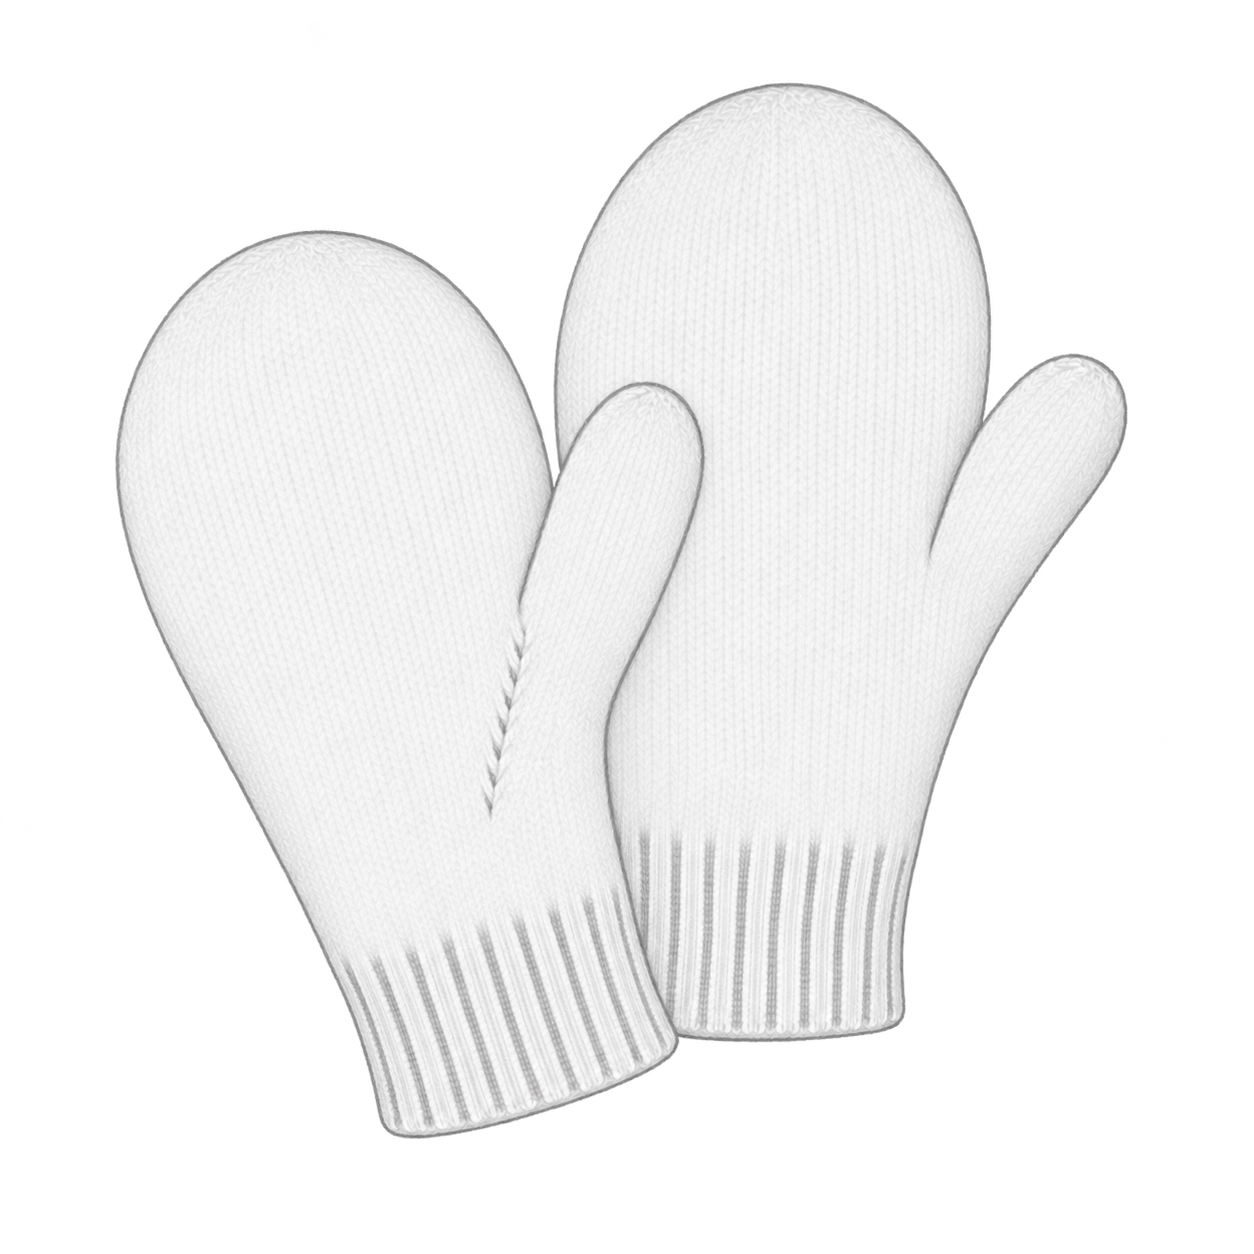
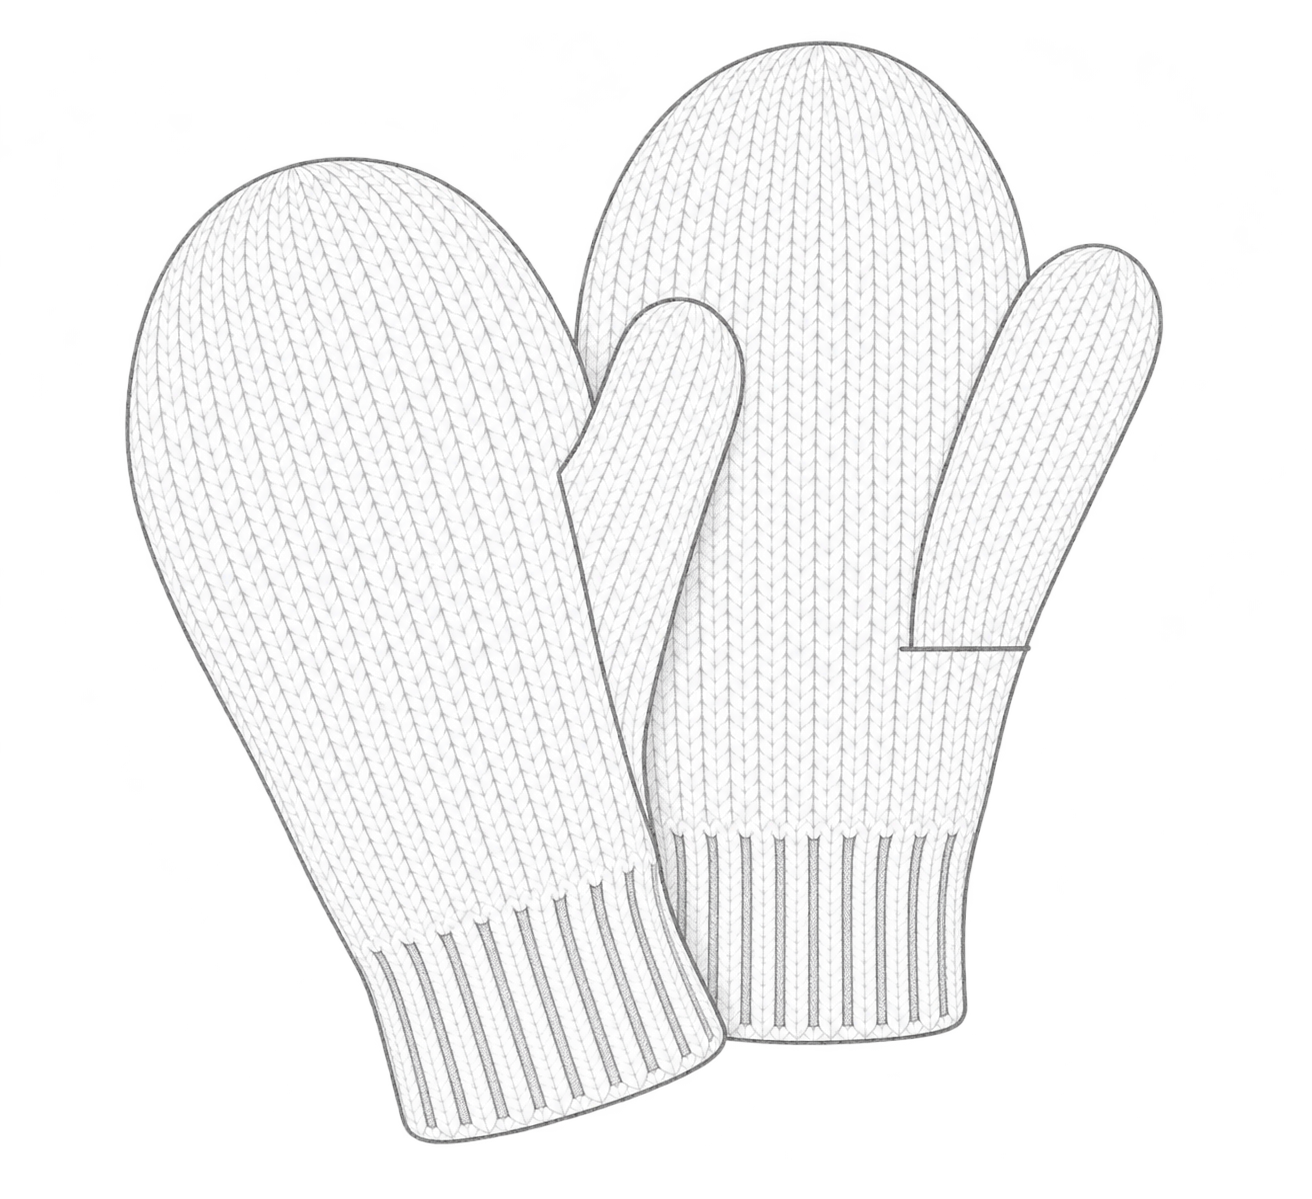
Show the supplied thumb drawings and the new mitten thumbnail on the pattern cards.

diff --git a/src/lib/patterns/mitten/mittenBuilderState.test.ts b/src/lib/patterns/mitten/mittenBuilderState.test.ts
@@ -88,6 +88,10 @@ describe("mitten builder pages", () => {
     expect(builder).toContain('data-field="thumbStyle"');
     expect(builder).toContain('data-value="slotted"');
     expect(builder).toContain('data-value="gored"');
+    expect(builder).toContain('src="/images/patterns/mittens.png"');
+    expect(builder).toContain("/images/patterns/mittens/picker/slotted-thumb.webp");
+    expect(builder).toContain("/images/patterns/mittens/picker/gored-thumb.webp");
+    expect(builder).toContain("object-fit: contain");
     expect(builder).toContain("GaugeInput");
     expect(builder).not.toContain("mitten-cuff-circ");
     expect(builder).not.toContain("still need to be checked");
